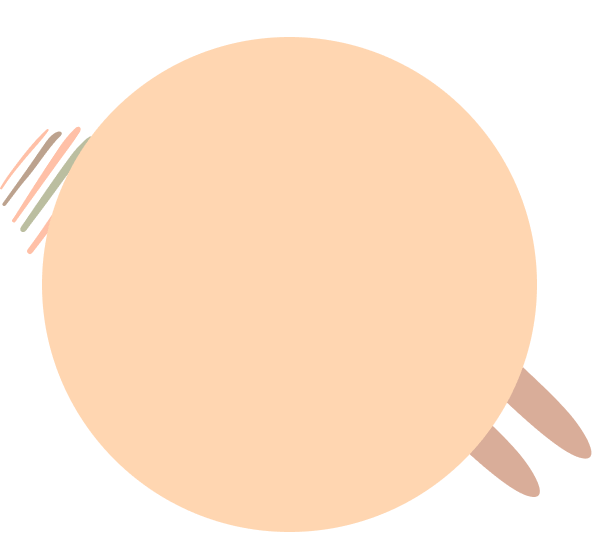
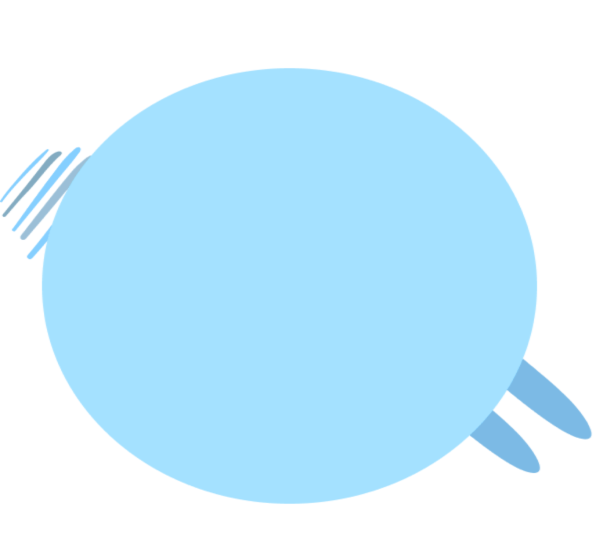
file add

diff --git a/public/assets/css/main.css b/public/assets/css/main.css
@@ -1628,7 +1628,7 @@ body.body {
     --vtc-text-pera-text-2: #ccccd5;
     --vtc-text-pera-text-3: #5a5f6a;
     --vtc-text-text-white-text-1: #ffffff;
-    --vtc-bg-main-bg-1: #ff7a01;
+    --vtc-bg-main-bg-1: #00A1E1;
     --vtc-bg-main-bg-2: #fc253f;
     --vtc-bg-main-bg-3: #fd965b;
     --vtc-bg-main-bg-4: #23342e;
@@ -2758,7 +2758,7 @@ body.body {
     left: 0;
     bottom: 0;
     right: 0;
-    background-color: #ffaa60;
+    background-color: #00A1E1;
     background-position: left center;
     transition-delay: 0.1s;
     transition-timing-function: ease-in-out;
@@ -2842,7 +2842,7 @@ body.body {
     left: 0;
     bottom: 0;
     right: 0;
-    background-color: #ffaa60;
+    background-color: #00A1E1;
     background-position: left center;
     transition-delay: 0.1s;
     transition-timing-function: ease-in-out;
@@ -11184,7 +11184,7 @@ body.body {
     width: 89%;
     bottom: 30px;
     bottom: 30px;
-    height: 120px;
+    height: 90px;
     margin: 0px 30px;
     opacity: 0;
     transform: perspective(540px) rotateY(0deg) translateY(-100px);

diff --git a/next-env.d.ts b/next-env.d.ts
@@ -1,5 +1,6 @@
 /// <reference types="next" />
 /// <reference types="next/image-types/global" />
+/// <reference path="./.next/types/routes.d.ts" />
 
 // NOTE: This file should not be edited
 // see https://nextjs.org/docs/app/api-reference/config/typescript for more information.
